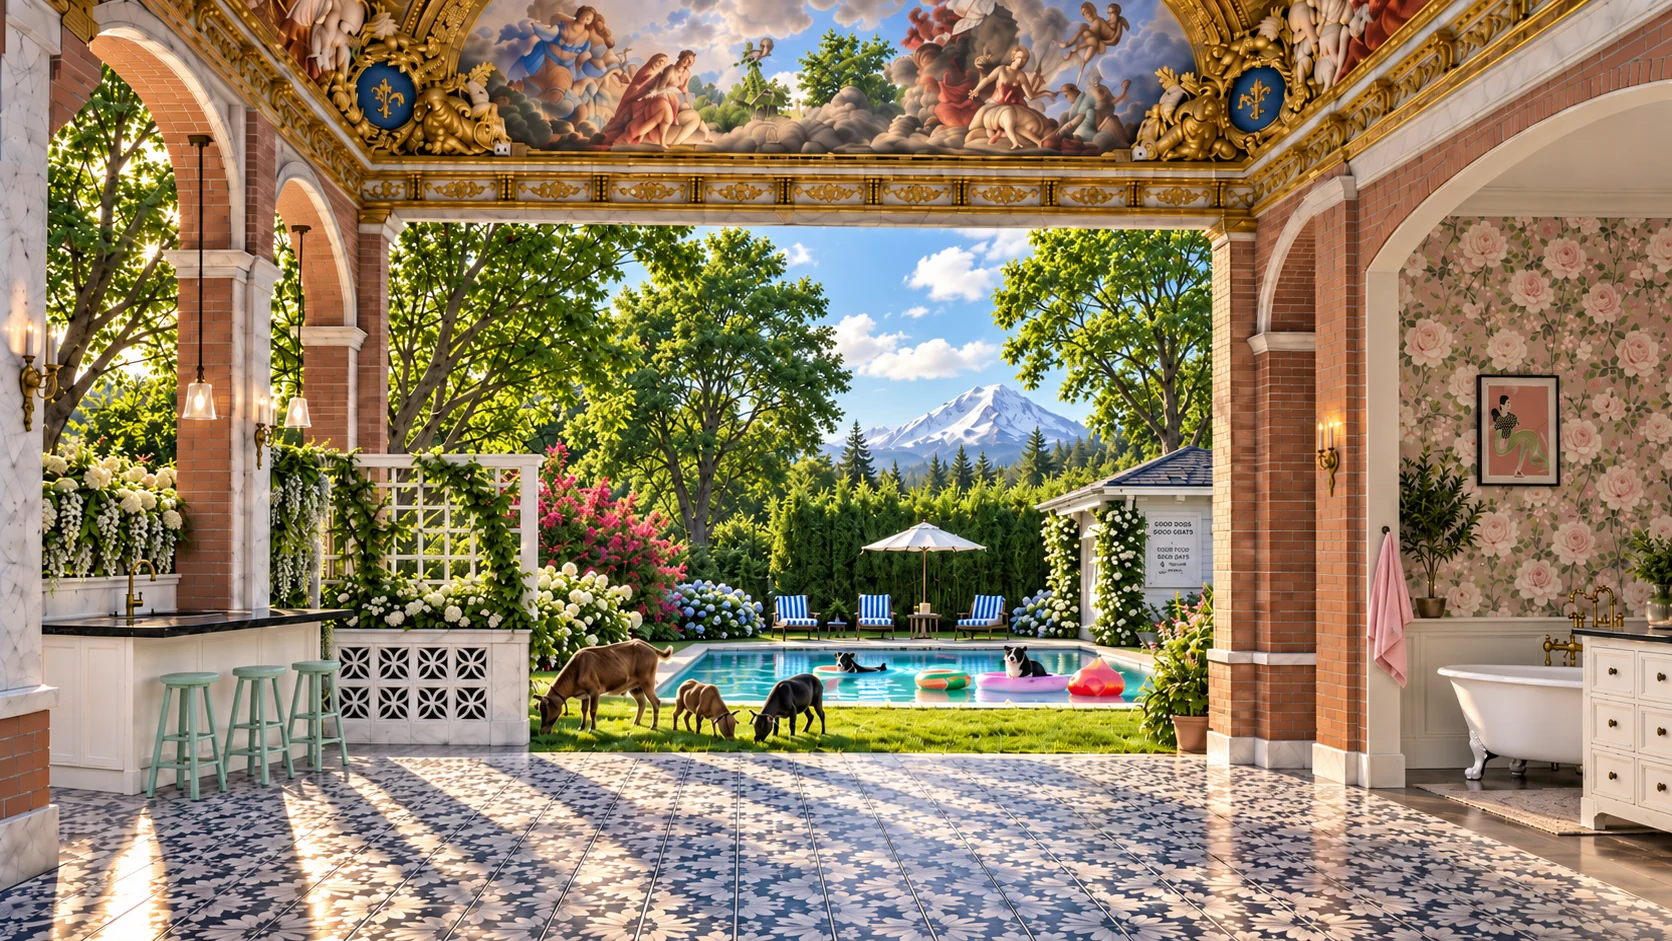
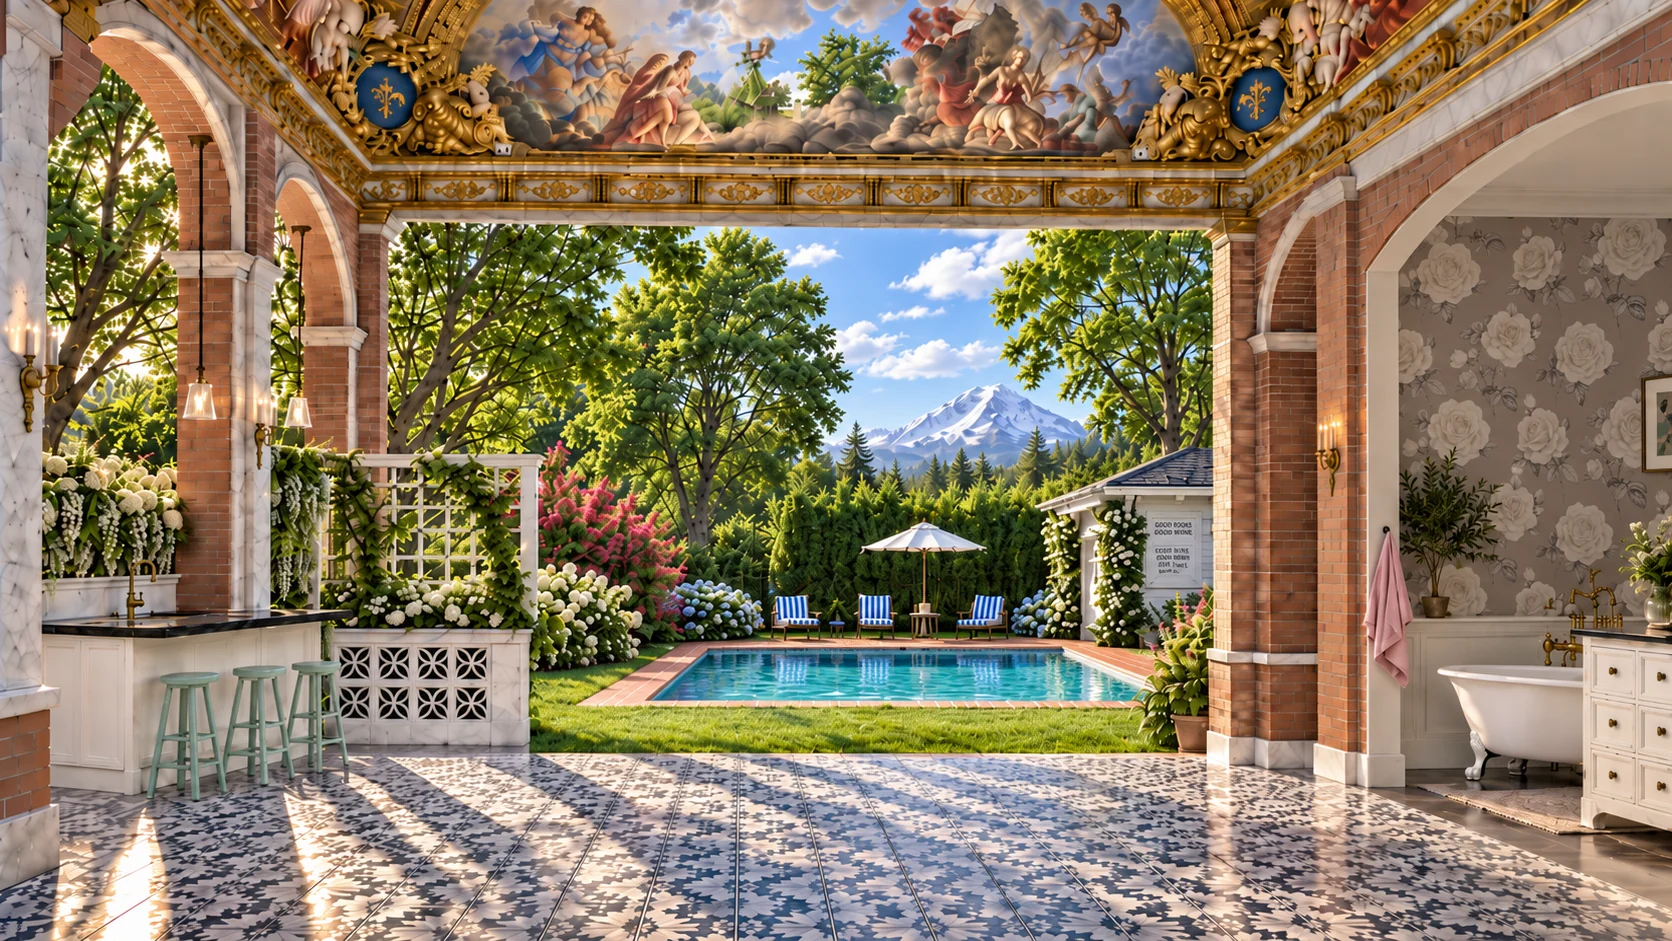
feat(yard): Add summer yard animals to palais scene
This adds the summer photo animals to the Palais room: goats grazing on the lawn and dogs in the pool. It includes new prop catalog entries, shelf visibility updates, and a photo-frame overlay so the summer props align with the updated room photograph.

diff --git a/src/palais/SummerYard.tsx b/src/palais/SummerYard.tsx
@@ -1,0 +1,41 @@
+import { Prop } from "./Prop";
+
+/**
+ * The summer garden's animals: the goats grazing on the lawn and the dogs in
+ * the pool, where the painted ones were before the summer photograph was
+ * redone without them.
+ *
+ * They're placed on the photograph itself rather than on the stage: the frame
+ * below is the exact box the photograph covers (the same crop and zoom as in
+ * Room), so a percentage is a spot in the picture — the lawn stays the lawn at
+ * any window size. Measured on the 1672 × 941 photograph.
+ */
+
+const PHOTO_W = 1672;
+const PHOTO_H = 941;
+
+/** left edge and width across, feet down, in photograph pixels */
+const at = (x: number, width: number, feet: number) => ({
+  left: `${((x / PHOTO_W) * 100).toFixed(2)}%`,
+  w: `${((width / PHOTO_W) * 100).toFixed(2)}%`,
+  ground: `${(((PHOTO_H - feet) / PHOTO_H) * 100).toFixed(2)}%`,
+});
+
+/** the same, for things afloat: no shadow on the water */
+const afloat = (x: number, width: number, waterline: number) => {
+  const { ground, ...rest } = at(x, width, waterline);
+  return { ...rest, bottom: ground };
+};
+
+export function SummerYard() {
+  return (
+    <div className="palais-photo-frame" style={{ zIndex: 20 }}>
+      {/* grazing on the lawn, left of the pool */}
+      <Prop id="goat-bambi" only="summer" {...at(535, 145, 745)} motion="none" />
+      <Prop id="goats-pumpkin-ferdinand" only="summer" {...at(700, 86, 748)} motion="none" />
+      {/* in the pool */}
+      <Prop id="dog-maggie-frisbee" only="summer" {...afloat(830, 90, 696)} motion="bob" dur={6} rise={2} />
+      <Prop id="dog-charlie-kiddie-pool" only="summer" {...afloat(975, 150, 708)} motion="bob" dur={8} rise={1} />
+    </div>
+  );
+}

diff --git a/src/palais/shelves.ts b/src/palais/shelves.ts
@@ -89,7 +89,8 @@ export const SHELVES: Shelf[] = [
     items: ["pendant-opal", "pendant-cameo", "pendant-opal-antique"],
   },
   { key: "people", name: "People", emoji: "👯♀", items: ["fall-table-brea-molly"] },
-  { key: "dogs", name: "Dogs", emoji: "🐶", items: ["dog-frisbee"] },
+  { key: "dogs", name: "Dogs", emoji: "🐶", items: ["dog-maggie-frisbee", "dog-charlie-kiddie-pool", "dog-frisbee"] },
+  { key: "goats", name: "Goats", emoji: "🐐", items: ["goat-bambi", "goats-pumpkin-ferdinand"] },
   { key: "pillows", name: "Pillows", emoji: "🎀", items: ["pillow-floral", "pillow-lace", "pillow-bolster"] },
   {
     key: "teacups",
@@ -113,10 +114,11 @@ export const SHELVES: Shelf[] = [
 ];
 
 /** what starts out of the room: the blossoms, the teacups, the pillows and
-    the dog, as Molly left it; everything else starts in it */
-export const HIDDEN_AT_FIRST: string[] = ["blossoms", "teacups", "pillows", "dogs"].flatMap(
-  (key) => SHELVES.find((s) => s.key === key)!.items,
-);
+    the frisbee dog, as Molly left it; everything else starts in it */
+export const HIDDEN_AT_FIRST: string[] = [
+  ...["blossoms", "teacups", "pillows"].flatMap((key) => SHELVES.find((s) => s.key === key)!.items),
+  "dog-frisbee",
+];
 
 /** each shelf's items that are actually in this room, trinkets catching the rest */
 export function stock(inRoom: string[]): { shelf: Shelf; items: string[] }[] {

diff --git a/src/palais/PalaisHome.tsx b/src/palais/PalaisHome.tsx
@@ -10,6 +10,7 @@ import { Flyers } from "./Flyers";
 import { PortraitTerrace, usePortrait } from "./PortraitTerrace";
 import { Weather } from "./Weather";
 import { Draggable } from "./Draggable";
+import { SummerYard } from "./SummerYard";
 import { ArrangedRoom, arranged } from "./arrangement";
 import "./palais.css";
 
@@ -122,6 +123,7 @@ export default function PalaisHome() {
           <Pollen count={portrait ? 60 : 110} className="palais-pollen--front" />
           <StickerToggle seasons>
           {portrait ? <PortraitTerrace /> : <ArrangedRoom.Provider value={true}>
+          <SummerYard />
           {/* ---- blossom, broken by the top corners --------------------- */}
           <Prop id="wisteria-branch-lavender" w="clamp(17rem,35cqw,33rem)" left="-7%" top="-11%" tilt={-3} motion="rustle" dur={17} z={90} plane="fore" />
           <Prop id="wisteria-branch-purple" w="clamp(12rem,26cqw,24rem)" right="-6%" top="-9%" tilt={5} motion="rustle" dur={21} z={90} plane="fore" flip className={sm} />

diff --git a/src/palais/palais.css b/src/palais/palais.css
@@ -163,6 +163,25 @@
   100%               { opacity: 0; }
 }
 
+/* the box the wide photograph covers: the same cover crop (centred across,
+   42% down) and the same 1.045 zoom about the middle of the stage, so things
+   placed in it sit on the painted terrace (see SummerYard) */
+.palais .palais-photo-frame {
+  --fw: max(100cqw, 100cqh * 1672 / 941);
+  --fh: max(100cqh, 100cqw * 941 / 1672);
+  --fl: calc((100cqw - var(--fw)) * 0.5);
+  --ft: calc((100cqh - var(--fh)) * 0.42);
+  position: absolute;
+  left: var(--fl);
+  top: var(--ft);
+  width: var(--fw);
+  height: var(--fh);
+  transform: scale(1.045);
+  transform-origin: calc(50cqw - var(--fl)) calc(50cqh - var(--ft));
+  pointer-events: none;
+}
+.palais .palais-photo-frame [data-prop] { pointer-events: auto; }
+
 .palais .palais-room .palais-frame img { width: 100%; height: 100%; object-fit: fill; }
 
 .palais-pollen {

diff --git a/src/palais/props.ts b/src/palais/props.ts
@@ -141,6 +141,10 @@ export const PROPS = catalogue({
   /** animated: cut out of a video of her catching a frisbee */
   "dog-frisbee": { label: "catching the frisbee", plane: "mid", animated: true },
   "fall-table-brea-molly": { label: "Brea and Molly with their cats, at the autumn table", plane: "mid" },
+  "goat-bambi": { label: "Bambi, grazing in her red collar", plane: "mid" },
+  "goats-pumpkin-ferdinand": { label: "Pumpkin and Ferdinand", plane: "mid" },
+  "dog-maggie-frisbee": { label: "Maggie, swimming with her frisbee", plane: "mid" },
+  "dog-charlie-kiddie-pool": { label: "Charlie in the kiddie pool, with floaties", plane: "mid" },
   "honeysuckle-sewing-floral": { label: "Honeysuckle, and the floral", plane: "near" },
 
   /* ---- more tea --------------------------------------------------------- */
